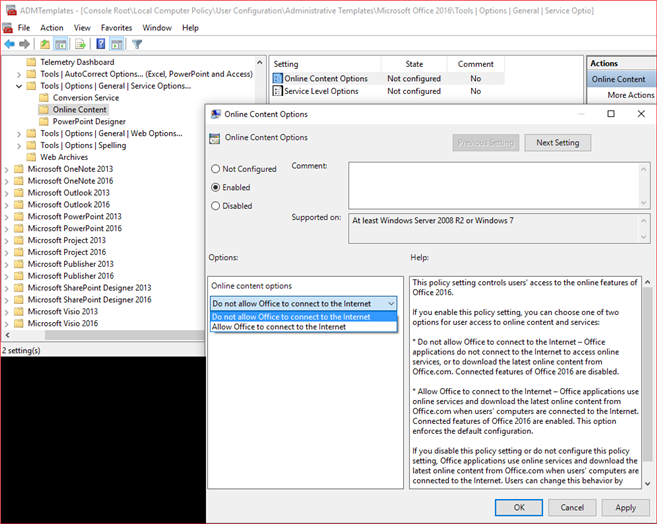
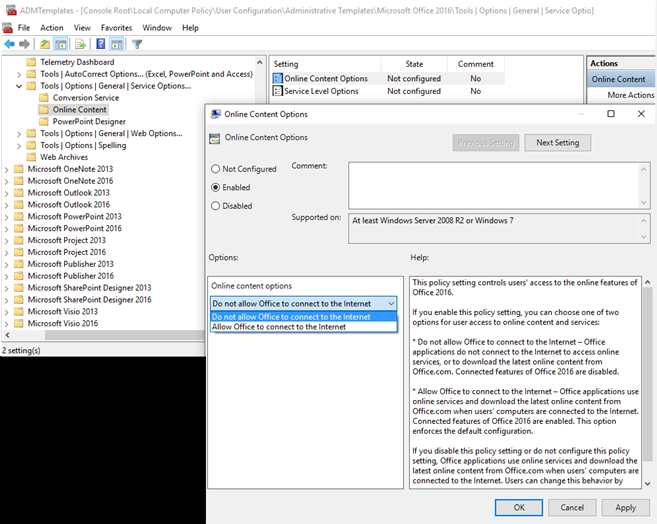
Update weather-bar-and-weather-settings-are-missing

diff --git a/Outlook/Client/user-interface/weather-bar-and-weather-settings-are-missing.md b/Outlook/Client/user-interface/weather-bar-and-weather-settings-are-missing.md
@@ -77,7 +77,7 @@ Group Policy Setting name: **Online Content Options**
 > [!NOTE]
 > The \<xx> placeholder represents your version of Office (16 = Office 2016, Office 2019, Office LTSC 2021, or Outlook for Office 365, 13 = Office 2013).
 
-:::image type="content" source="media/weather-bar-and-weather-settings-are-missing/online-content-options.png" alt-text="Online Content Options" border="false":::
+:::image type="content" source="media/weather-bar-and-weather-settings-are-missing/online-content-options.png" alt-text="Screenshot of a Group Policy setting Online Content Options.":::
 
 This setting also affects other features in Microsoft Office, including:
 
